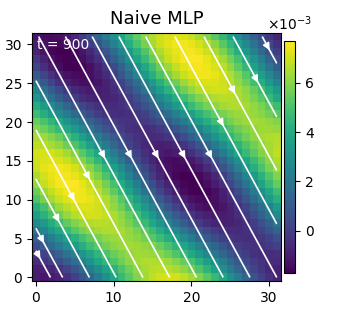
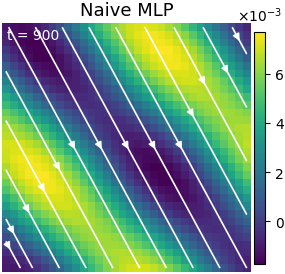
all images added + implemented into slides

diff --git a/talk.md b/talk.md
@@ -87,7 +87,7 @@ $$ \mathrm{MSRE} = \sum_{i=0}^{8}\left(\frac{f_i^{\text{post}}-\hat{f}_i^{\text{
 
 <div class="cols">
 
-<div>
+<div style="width:48%;">
 
 ### Why Taylor–Green?
 
@@ -97,32 +97,60 @@ $$ \mathrm{MSRE} = \sum_{i=0}^{8}\left(\frac{f_i^{\text{post}}-\hat{f}_i^{\text{
 
 <br>
 
+<div class="cols">
+
+<div style="width:45%;">
+
 ### Analytical decay
 
 $$
 u(t) \sim e^{-2 \nu k^2 t}
 $$
 
-<br>
-
 </div>
 
-<div>
+<div
+style="
+width:55%;
+text-align:center;
+display:flex;
+flex-direction:column;
+justify-content:center;
+"
+>
 
-<img src="assets/tgv_t0.png" style="width:31%;">
-<img src="assets/tgv_t500.png" style="width:31%;">
-<img src="assets/tgv_t900.png" style="width:31%;">
-
-<p class="cap">
-Taylor–Green vortex evolution at increasing timesteps
-</p>
-
-<br>
-
-<img src="assets/analytic_decay.png" style="width:75%;">
+<img src="assets/analytic_decay.png" style="width:80%;">
 
 <p class="cap">
 Analytical velocity decay
+</p>
+
+</div>
+
+</div>
+
+</div>
+
+<div style="width:52%;">
+
+<div style="
+display:grid;
+grid-template-columns: 1fr 1fr;
+gap:2px;
+justify-items:center;
+align-items:center;
+margin-bottom:10px;
+">
+
+<img src="assets/analytic_t0.png" style="width:85%;">
+<img src="assets/analytic_t20.png" style="width:85%;">
+<img src="assets/analytic_t50.png" style="width:85%;">
+<img src="assets/analytic_t900.png" style="width:85%;">
+
+</div>
+
+<p class="cap">
+Taylor–Green vortex evolution at increasing timesteps
 </p>
 
 </div>
@@ -135,7 +163,15 @@ Analytical velocity decay
 
 <div class="cols">
 
-<div class="fragment fade-in">
+<div
+  class="fragment fade-in"
+  style="
+    width:30%;
+    display:flex;
+    flex-direction:column;
+    justify-content:space-between;
+  "
+>
 
 ### Naive MLP
 
@@ -143,8 +179,14 @@ Analytical velocity decay
 - Errors accumulate during rollout
 
 <br>
-
+<div style="
+height:260px;
+display:flex;
+align-items:flex-end;
+justify-content:center;
+">
 <img src="assets/naive_t900.png" style="width:75%;">
+</div>
 
 <p class="cap" style="font-size:0.75em;">
 Vortex structure breaks down during long-time evolution
@@ -152,16 +194,30 @@ Vortex structure breaks down during long-time evolution
 
 </div>
 
-<div class="fragment fade-in">
+<div
+  class="fragment fade-in"
+  style="
+    width:30%;
+    display:flex;
+    flex-direction:column;
+    justify-content:space-between;
+  "
+>
 
 ### Lattice Symmetry
 
-- Collision operator should respect D4 lattice symmetry
-- Outputs are averaged over symmetry transforms
+- Outputs are averaged over symmetry transforms to respect D4 lattice symmetry
 
 <br>
 
-<img src="assets/symmetry_t900.png" style="width:90%;">
+<div style="
+height:260px;
+display:flex;
+align-items:flex-end;
+justify-content:center;
+">
+<img src="assets/symmetry_t900.png" style="width:75%;">
+</div>
 
 <p class="cap" style="font-size:0.75em;">
 Symmetry averaging restores coherent vortex structure
@@ -169,21 +225,46 @@ Symmetry averaging restores coherent vortex structure
 
 </div>
 
-<div class="fragment fade-in">
+<div
+  class="fragment fade-in"
+  style="
+    width:30%;
+    display:flex;
+    flex-direction:column;
+    justify-content:flex-start;
+  "
+>
 
 ### Conservation
 
-$$
-\sum_i f_i = \rho
-$$
+<div style="
+font-size:1.0em;
+line-height:1.2;
+margin-top:10px;
+margin-bottom:10px;
+height:150px;
+">
 
-$$
-\sum_i f_i c_i = \rho u
-$$
+<div style="margin-bottom:15px;">
+\(\sum_i f_i = \rho\)
+</div>
 
+<div>
+\(\sum_i f_i c_i = \rho u\)
+</div>
+
+</div>
 <br>
 
-<img src="assets/conservation_decay.png" style="width:90%;">
+<div style="
+height:260px;
+display:flex;
+align-items:flex-end;
+justify-content:center;
+margin-top:auto;
+">
+<img src="assets/conservation_decay.png" style="width:75%;">
+</div>
 
 <p class="cap" style="font-size:0.75em;">
 Reduced long-time drift in velocity decay
@@ -201,7 +282,7 @@ Reduced long-time drift in velocity decay
 
 <div style="width:60%;">
 
-<img src="assets/combined_velocity_decay.png" style="width:100%;">
+<img src="assets/ablation_decay.png" style="width:90%;">
 
 <p class="cap">
 Velocity decay comparison for all model variants